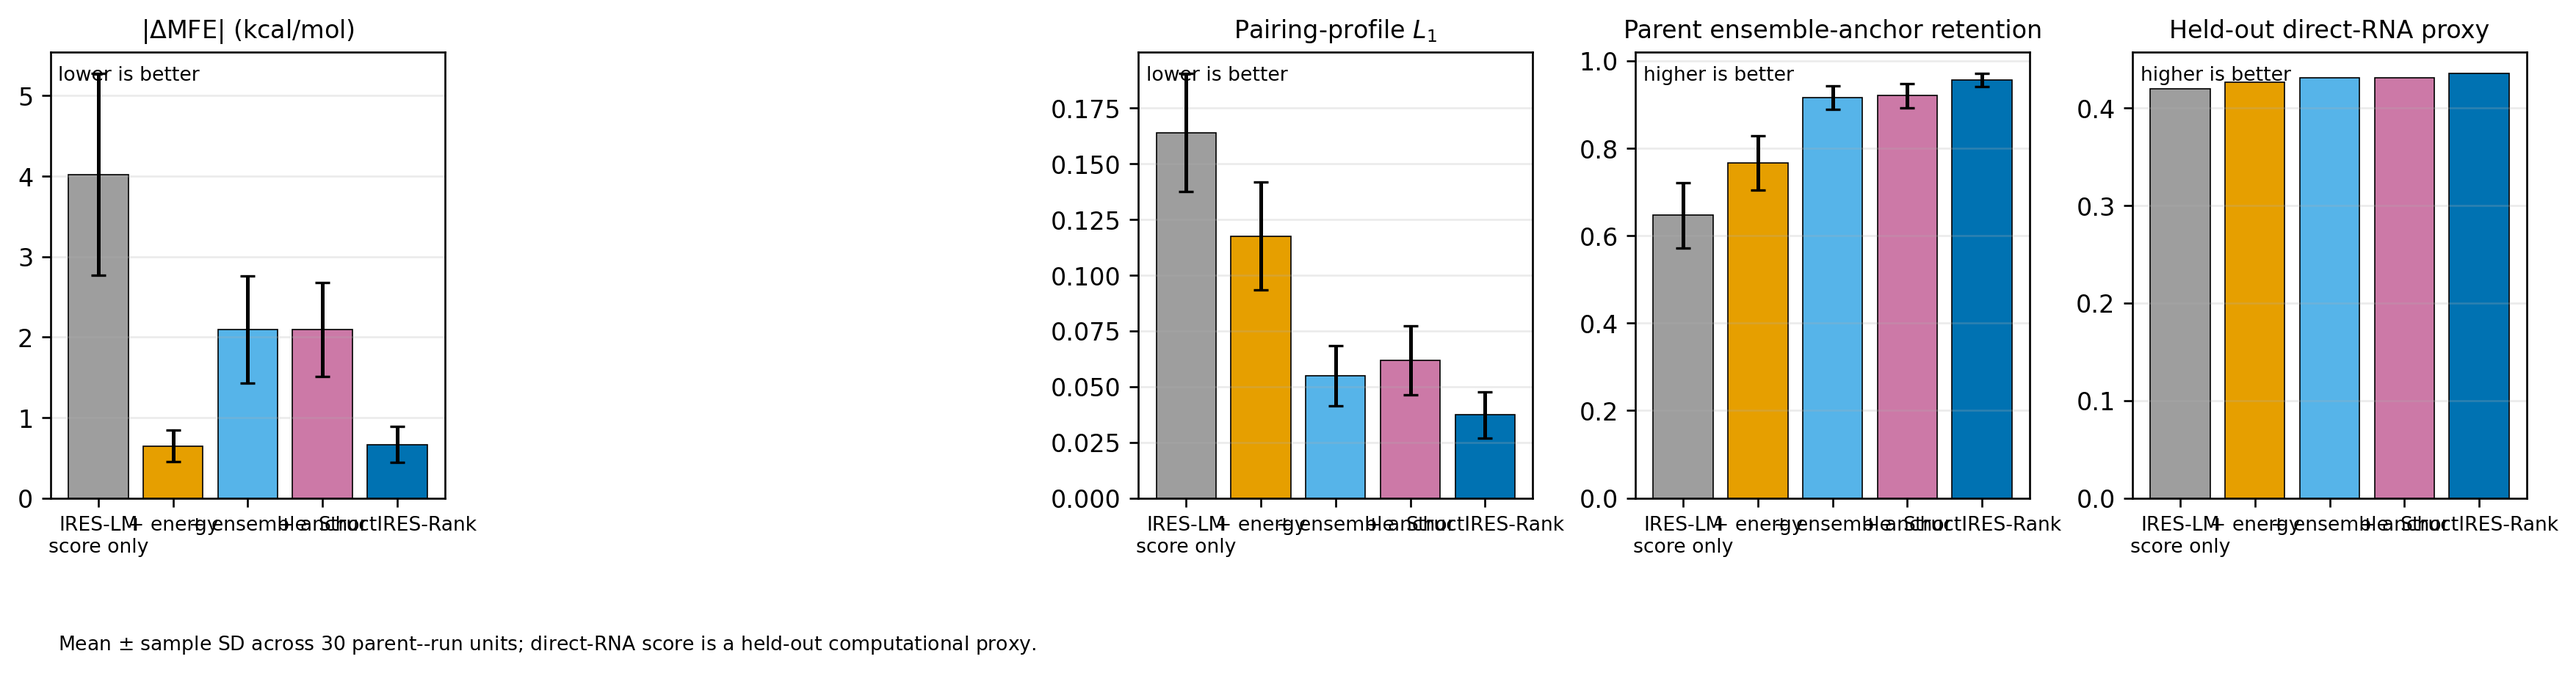
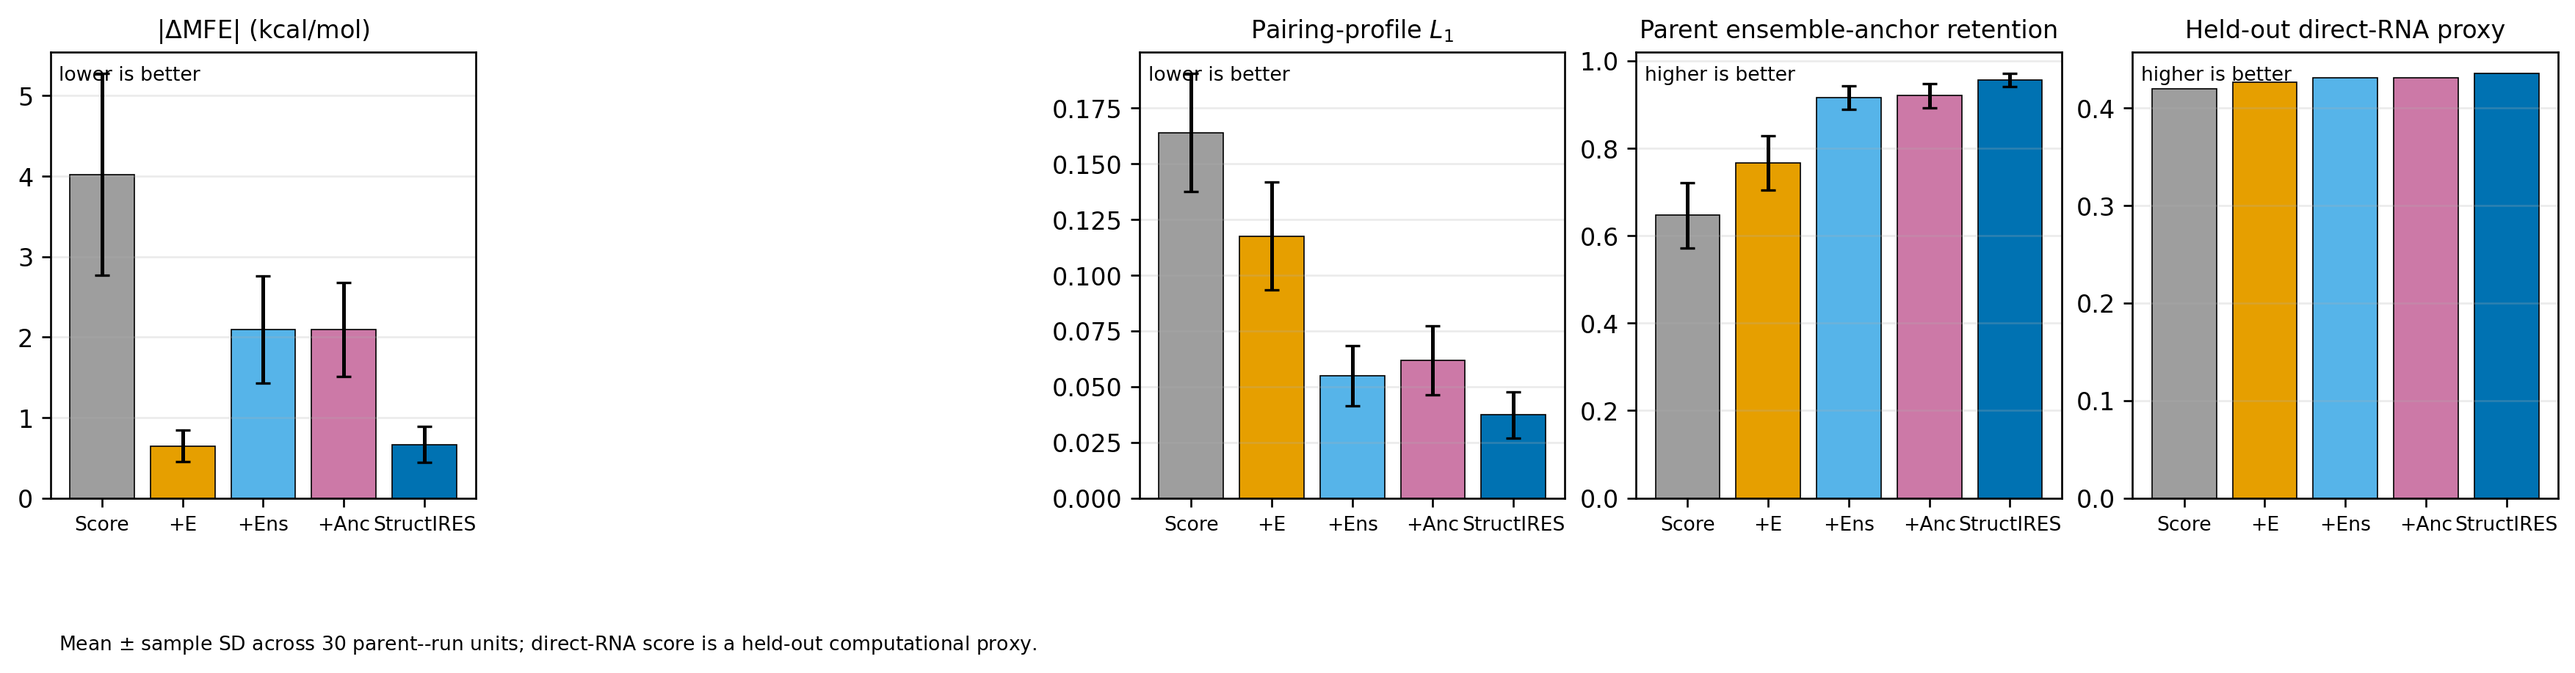
docs: repair citations and polish IRES-LM figure

diff --git a/paper/sections/introduction.tex b/paper/sections/introduction.tex
@@ -6,19 +6,22 @@ more than a short sequence motif: alternative RNA structures, host factors, cons
 type, and downstream coding context can all alter translation.
 
 Recent IRES-AI work established useful same-task prediction, evolutionary mutation, and diffusion
-generation baselines using 46,774 labelled sequences. However, 95.4\% of that identification set
-comes from a 174-nt DNA/lentiviral reporter library. RNA-based IRES-TrAPPr measurements and recent
-IRES--cargo studies motivate an explicit audit of whether this legacy signal transfers to direct-RNA
-and full-length contexts.
+generation baselines using 46,774 labelled sequences \cite{chu2026iresai}. However, 95.4\% of that
+identification set comes from a 174-nt DNA/lentiviral reporter library \cite{weingarten2016ires}.
+RNA-based IRES-TrAPPr measurements \cite{may2026irestrappr} motivate an explicit audit of whether
+this legacy signal transfers to direct-RNA and full-length contexts.
 
 We therefore formulate IRES design as a constrained optimization problem rather than a pure
 classifier-maximization task: can a candidate retain the energy and ensemble-structural features
 of an experimentally supported full-length parent while improving a released IRES-recognition
-score? Our contributions are: (i) \textsc{StructIRES-Rank}, an assay-aware, generator-agnostic
-rank-selection layer that combines a sequence score, parent-relative energy preservation and
-ensemble-structure preservation; (ii) a controlled full-length design matrix in which released
-RNA-FM score-only, energy-only, ensemble-only and combined selection operate on exactly the same
-candidates and budget; (iii) an independent direct-RNA held-out proxy that tests whether the
+score? Prior computational IRES mutagenesis already establishes that MFE and a single predicted
+fold alone are insufficient as a novelty claim \cite{delliponti2026structure}. Our contributions are:
+(i) \textsc{StructIRES-Rank}, an assay-aware, generator-agnostic
+rank-selection layer that combines the released IRES-LM ensemble score, parent-relative energy
+preservation, global ensemble preservation, and parent-anchor preservation; (ii) a controlled
+full-length design matrix in which IRES-LM score-only, energy-only, global-ensemble-only,
+anchor-only and combined selection operate on exactly the same candidates and budget; (iii) an
+independent direct-RNA held-out proxy that tests whether the
 combined constraints improve computational candidate enrichment beyond each score-only or
 single-constraint alternative; and (iv) a cross-assay benchmark audit that explains why legacy
 IRES classifiers are useful baselines but insufficient standalone design objectives.

diff --git a/scripts/make_structires_ablation_figure.py b/scripts/make_structires_ablation_figure.py
@@ -8,11 +8,11 @@ from pathlib import Path
 
 
 LABELS = {
-    "ireslm_score_only": "IRES-LM\nscore only",
-    "ireslm_plus_energy": "+ energy",
-    "ireslm_plus_ensemble": "+ ensemble",
-    "ireslm_plus_anchor": "+ anchor",
-    "structires": "StructIRES-Rank",
+    "ireslm_score_only": "Score",
+    "ireslm_plus_energy": "+E",
+    "ireslm_plus_ensemble": "+Ens",
+    "ireslm_plus_anchor": "+Anc",
+    "structires": "StructIRES",
 }
 ORDER = list(LABELS)
 
